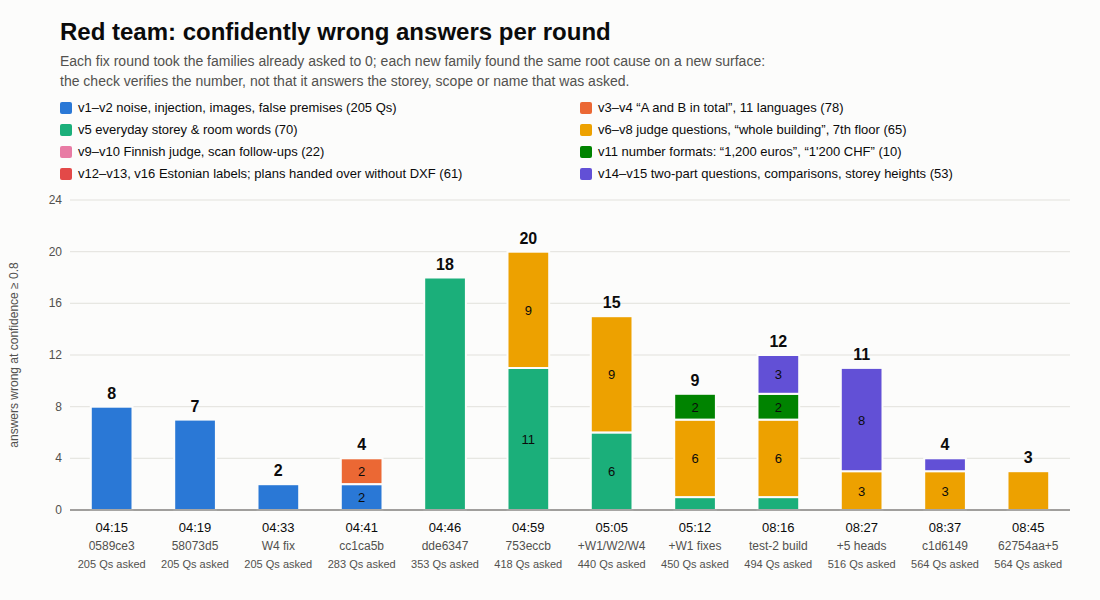
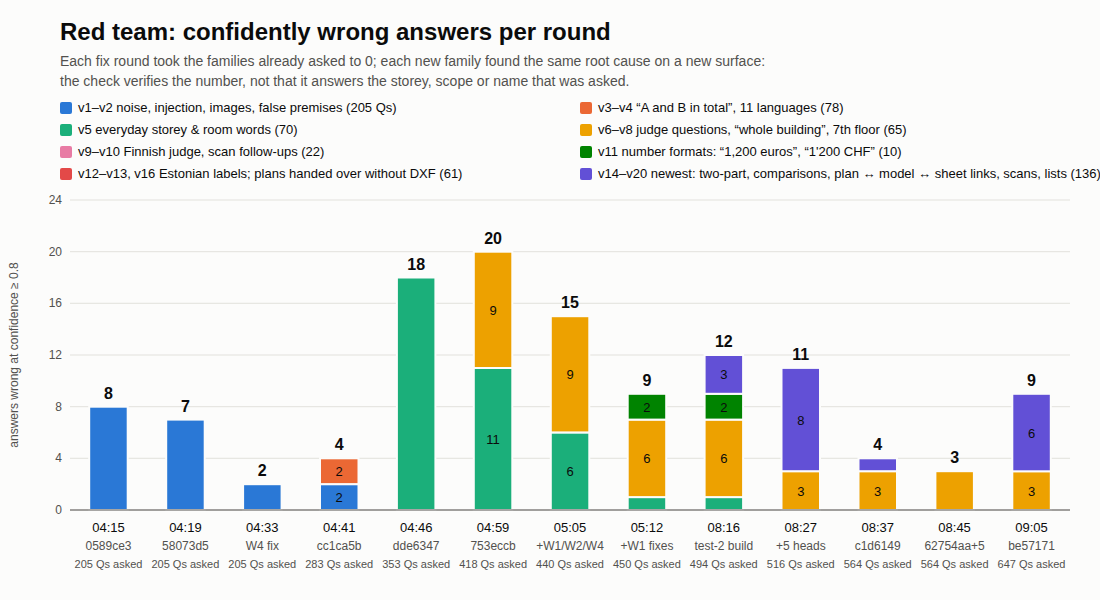
Q: Stoa point-3 audit (0/647 refusals; missing lines often process notes), slide-4 line + chart with be57171 round

Changed region(s): [[0.0618, 0.39, 0.9891, 0.96], [0.5564, 0.27, 1.0, 0.3], [0.0927, 0.63, 0.1236, 0.84]]

diff --git a/experiments/q/plot_rounds.py b/experiments/q/plot_rounds.py
@@ -7,16 +7,17 @@ SER = ["#2a78d6", "#eb6834", "#1baf7a", "#eda100", "#e87ba4", "#008300", "#e3494
 FAMS = ["v1–v2 noise, injection, images, false premises (205 Qs)", "v3–v4 “A and B in total”, 11 languages (78)",
         "v5 everyday storey &amp; room words (70)", "v6–v8 judge questions, “whole building”, 7th floor (65)",
         "v9–v10 Finnish judge, scan follow-ups (22)", "v11 number formats: “1,200 euros”, “1'200 CHF” (10)",
-        "v12–v13, v16 Estonian labels; plans handed over without DXF (61)", "v14–v15 two-part questions, comparisons, storey heights (53)"]
-SIZES = [205, 78, 70, 65, 22, 10, 61, 53]
+        "v12–v13, v16 Estonian labels; plans handed over without DXF (61)", "v14–v20 newest: two-part, comparisons, plan ↔ model ↔ sheet links, scans, lists (136)"]
+SIZES = [205, 78, 70, 65, 22, 10, 61, 136]
 ROUNDS = [("04:15", "0589ce3"), ("04:19", "58073d5"), ("04:33", "W4 fix"), ("04:41", "cc1ca5b"), ("04:46", "dde6347"),
           ("04:59", "753eccb"), ("05:05", "+W1/W2/W4"), ("05:12", "+W1 fixes"),
-          ("08:16", "test-2 build"), ("08:27", "+5 heads"), ("08:37", "c1d6149"), ("08:45", "62754aa+5")]
-ASKED = {7: 450, 8: 494, 9: 516}  # rounds that asked only part of a family (08:16: v14 without v15)
+          ("08:16", "test-2 build"), ("08:27", "+5 heads"), ("08:37", "c1d6149"), ("08:45", "62754aa+5"), ("09:05", "be57171")]
+ASKED = {7: 450, 8: 494, 9: 516, 10: 564, 11: 564}  # rounds that asked only part of a family (08:16: v14 without v15)
 DATA = [[8, None, None, None, None, None, None, None], [7, None, None, None, None, None, None, None],
         [2, None, None, None, None, None, None, None], [2, 2, None, None, None, None, None, None],
         [0, 0, 18, None, None, None, None, None], [0, 0, 11, 9, None, None, None, None], [0, 0, 6, 9, 0, None, None, None],
-        [0, 0, 1, 6, 0, 2, None, None], [0, 0, 1, 6, 0, 2, 0, 3], [0, 0, 0, 3, 0, 0, 0, 8], [0, 0, 0, 3, 0, 0, 0, 1], [0, 0, 0, 3, 0, 0, 0, 0]]
+        [0, 0, 1, 6, 0, 2, None, None], [0, 0, 1, 6, 0, 2, 0, 3], [0, 0, 0, 3, 0, 0, 0, 8], [0, 0, 0, 3, 0, 0, 0, 1], [0, 0, 0, 3, 0, 0, 0, 0],
+        [0, 0, 0, 3, 0, 0, 0, 6]]
 W, H = 1100, 600
 L, R, T, B = 70, 30, 200, 90          # plot margins
 YMAX = 24

diff --git a/demo/DEMO.md b/demo/DEMO.md
@@ -90,18 +90,28 @@ By source on sealed test 2: Swiss vector plans 99.0 %, IFC models 100 % (397/397
 ## 2:35–2:55 · Where it breaks, and why (slide 4 — the failure analysis)
 Slide image: `demo/redteam-rounds.png` (SVG next to it; regenerate with `python3 experiments/q/plot_rounds.py` and
 headless chromium, numbers from `redteam/REPORT.md`). **Say only this (≈ 20 s, 60 words):**
-> "We tried to break it ourselves: 564 adversarial questions — rewordings, nine languages, rotated scans, rooms that
-> don't exist, questions no drawing can answer. Every confident mistake had one cause: we checked the number, not
-> that it answered what was asked. Each bar is a round of fixes. On the build we're showing, 338 of 339 confident
-> answers are right."
-(Numbers by stage build — say the line for the build on stage: bb94fe4 (test 2): "494 … 283 of 290"; c1d6149:
-"564 … 338 of 339"; 62754aa: "564 … 336 of 337"; 62754aa + the 08:41 heads (pre-merge #6): "564 … every one of 350
-confident answers was right".)
+> "We tried to break it ourselves: over 600 adversarial questions — rewordings, nine languages, rotated scans, rooms
+> that don't exist, questions no drawing can answer. Every confident mistake had one cause: we checked the number,
+> not that it answered what was asked. Each bar is a round of fixes. On the build we're showing, all 360 confident
+> answers are right — and it never just refuses."
+(Numbers by stage build — say the line for the build on stage: be57171 (09:05): "609 … all 360"; bb94fe4 (test 2):
+"494 … 283 of 290"; c1d6149: "564 … 338 of 339"; 62754aa: "609 … 337 of 339". "Never just refuses": 0 of 647
+answers on be57171 are a bare refusal, and every wrong one carries an assumption or a "missing" line — see backup.)
 
 Point at the chart: the families already asked go to 0 after each fix; each new family finds the same cause on a
 new surface (storeys in everyday words, "whole building" in Swedish, "1,200 euros", two-part questions).
 
 **Backup for questions (don't read out):**
+- **Newest (09:05, night be57171, 609 questions v1–v18): 360 of 360 confident scored answers right; 3 false
+  premises still answered confidently ("whole building" on a single-floor plan). The two newest families (v19 list
+  answers, v20 plan↔model link wordings, 38 questions, the chart's last bar) found 6 more confident misses**, e.g.
+  "Which living rooms are smaller than 30 m²?" → every room < 30 m², "How many of the model's windows does this
+  drawing not show?" → 297. Same root cause, new surface.
+- **"We know what we don't know" (Stoa's point 3), measured on all 622 answers of be57171:** 0 bare refusals (5
+  "unknown" text answers to questions no drawing answers: rent, construction year, U-value, cost, occupants); every
+  answer below confidence 0.3 says what is missing (35/35); all 33 wrong answers carry an assumption or a "missing"
+  line. Honest caveat: 108 of those lines are process notes ("no located evidence from this solver"), not what the
+  building's documents lack.
 - **Newest (08:45, pre-merge #6 = night 62754aa + the 08:41 heads): 3 of 564 at confidence ≥ 0.8 — all three are
   "whole building" asked on a single-floor plan — and 350 of 350 confident scored answers right.**
 - **Latest merged (08:37, night c1d6149): 4 of 564 at confidence ≥ 0.8, and 338 of 339 confident scored answers right** (`redteam/REPORT.md` "Pre-merge check #5"; the chart's last bar). Left:

diff --git a/redteam/REPORT.md b/redteam/REPORT.md
@@ -791,6 +791,30 @@ says "row F4 = …plan-03-3-korrus.pdf" and the evidence box IS that file; the s
 right sheet next to an answer that denies it. Neither path answers "How many of the model's windows on '1.korrus'
 does this drawing not show?" (297 at 0.98 both; kg_qa's trigger doesn't fire on that wording).
 
+## "You know what you don't know — but refusing is not useful" (Stoa point 3), audited on be57171 (09:15)
+All 622 answers of run `…-090509-…-v19b-a85a` (+ 25 v19b/v20 rows: same picture), by confidence band:
+
+| confidence | answers | value None | with a "missing" line | with assumption or missing | wrong / scored |
+|---|---:|---:|---:|---:|---:|
+| < 0.3 | 35 | 0 | 35 | 35 | 9 / 13 |
+| 0.3–0.5 | 57 | 0 | 51 | 52 | 16 / 48 |
+| 0.5–0.8 | 161 | 0 | 83 | 117 | 5 / 153 |
+| ≥ 0.8 | 369 | 0 | 101 | 293 | 3 / 366 |
+
+- **0 of 647 answers are a bare refusal**; all 33 wrong answers carry an assumption or a "missing" line; on the 42
+  false-premise / unanswerable rows 37 say what is missing and 31 are below 0.5.
+- **But the "missing" lines are often about our process, not about the building's documents:** "no located evidence
+  from this solver" is the most common line (108 answers), then "the agent's answer is not backed by a tool result"
+  (8). Of the 92 answers below 0.5, 52 name something specific (e.g. "3 rooms match 'Soggiorno/pranzo' on this floor;
+  name the room number", "printed areas for 7 rooms; one room flood-filled"), 34 only a process note, 6 nothing.
+- 5 questions no drawing answers get the string "unknown" (construction year, monthly rent, number of occupants,
+  U-value, construction cost) with "the agent's answer is not backed by a tool result" as the only explanation. Stoa's
+  ask is a best estimate + the assumption + what is missing: "occupants: ≈ 4–5 (3 bedrooms; occupancy is not on a
+  floor plan)", "rent: not derivable from a drawing; needs the location and the market rent per m²; the apartment
+  is ≈ 77 m²". A false premise answered from the prior ("apartment Z" → 74.78 at 0.04, missing "a reliable reading of
+  apartment on this drawing") should say "this plan labels apartments A–D; there is no Z" (raster already does this
+  on PNGs, W3 08:46). Owner: W4 (pipeline/agent missing lines), W5 (card wording).
+
 ## For Saturday noon: red-team Stoa's example questions in one command (`redteam/from_examples.py`)
 Put Stoa's examples in a jsonl (`path`, `question`, and `answer` / `unit` when known; a path may be absolute), then
 ```
